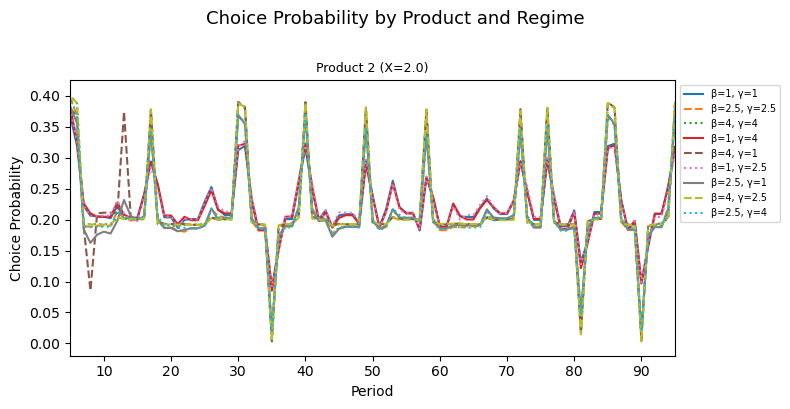
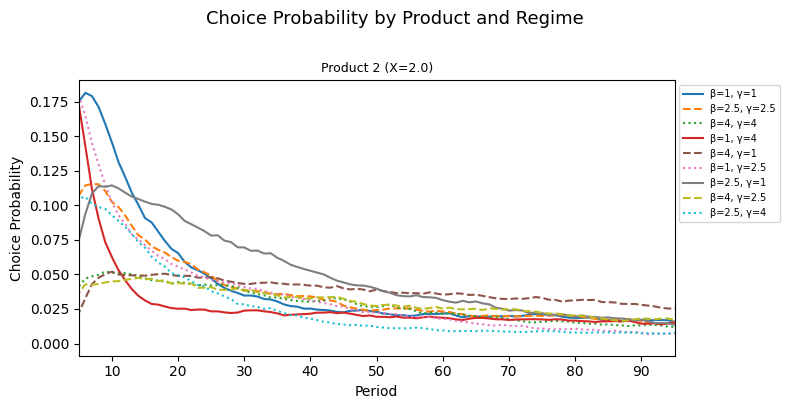
fixed sigma, finally

diff --git a/Y2S2/IO/LOV_CC/Code/updated_prob.py b/Y2S2/IO/LOV_CC/Code/updated_prob.py
@@ -11,7 +11,7 @@ from collections import namedtuple
 """
 This file will be used to do initial simulation of the love of variety problem:
     - Consumer Problem: U_ijt = beta_i*X_jt - gamma_i*(Sigma_jt) + a_ijt + epsilon_ijt
-        s.t. gamma ~ N(0, sigma_gamma); Sigma_jt = sum_t^T  X_jt
+        s.t. gamma ~ N(0, sigma_gamma); Sigma_jt = X_jt - 1/t*sum_{k=1}^t x_kt 
     - Firm Problem: V(a_t;Sigma_jt, lambda_t(gamma_i)) = {pi + int_gamma V(a';Sigma_jt+1, lambda_t+1(gamma_i))dlambda_t(gamma_i)}
         s.t. pi = (1+a)p - c
              lambda_t(gamma) ~ N(1/Sigma_jt, sigma_lambda), a = {0,1}
@@ -88,8 +88,6 @@ def simulate_cons(beta, gamma, kappa, sigma_gamma, T, J, X_bar, sigma_x, rng, S=
         x_bar = np.mean(prod_space)
         #x_bar[0] = np.mean(prod_space)
 
-        Sigma = np.zeros((T,J)) # empty vector for the sum of characteristics
-
         V = np.zeros((T, J))
         chosen_idx = np.zeros(T, dtype=int)
 
@@ -101,16 +99,14 @@ def simulate_cons(beta, gamma, kappa, sigma_gamma, T, J, X_bar, sigma_x, rng, S=
         V[0] = u0
         chosen_idx[0] = np.argmax(u0)
         x_chosen[0] = X_jt[0, chosen_idx[0]]
-        Sigma[0, chosen_idx[0]] = x_chosen[0]
 
         for t in range(1, T):
             u = np.zeros(J)
-            a[t] = 1.0
-            #x_bar[t] = np.mean(x_chosen[:t])
             X_jt[t] = np.array(prod_space)
-            Sigma[t] = Sigma[t-1].copy()
-            Sigma[t, chosen_idx[t-1]] += x_chosen[t-1]
-            u = beta*X_jt[t] - gamma*Sigma[t] + kappa*a[t] + epsilon_ijt[t] # love variety
+            a[t] = 0.0
+            #x_bar[t] = np.mean(x_chosen[:t])
+            Sigma = X_jt[t] - x_bar
+            u = beta*X_jt[t] - gamma*Sigma**2 + kappa*a[t] + epsilon_ijt[t] # love variety
             V[t] = u
             chosen_idx[t] = np.argmax(V[t])
             x_chosen[t] = X_jt[t, chosen_idx[t]] 
@@ -193,7 +189,6 @@ def simulate_cons_markov(beta, gamma, kappa, sigma_gamma, T, J, X_bar, sigma_x, 
         x_bar = np.mean(prod_space)
         #x_bar[0] = np.mean(prod_space)
 
-        Sigma = np.zeros((T,J)) # empty vector for the sum of characteristics
 
         V = np.zeros((T, J))
         chosen_idx = np.zeros(T, dtype=int)
@@ -202,18 +197,17 @@ def simulate_cons_markov(beta, gamma, kappa, sigma_gamma, T, J, X_bar, sigma_x, 
         a = np.zeros(T)
 
         a[0] = 0
-        u0 = beta*X_jt[0] - gamma*0 + a[0] + epsilon_ijt[0]
+        u0 = beta*X_jt[0] - gamma*0 + kappa*a[0] + epsilon_ijt[0]
         V[0] = u0
         x_chosen[0] = X_jt[0, chosen_idx[0]]
-        Sigma[0, chosen_idx[0]] = x_chosen[0]
 
         for t in range(1, T):
-            u = np.zeros(J)
             X_jt[t] = np.array(prod_space)
-            a[t] = kappa*(x_bar - x_chosen[t-1])**2 # Markovian promotion based on distance from mean 
-            Sigma[t] = Sigma[t-1].copy()
-            Sigma[t, chosen_idx[t-1]] += x_chosen[t-1]
-            u = beta*X_jt[t] - gamma*Sigma[t] + a[t] + epsilon_ijt[t] # love sameness
+            u = np.zeros(J)
+            #a[t] = kappa*(x_bar - x_chosen[t-1])**2 # Markovian promotion based on distance from mean 
+            a[t] = 0
+            Sigma = X_jt[t] - x_bar
+            u = beta*X_jt[t] - gamma*Sigma**2 + kappa*a[t] + epsilon_ijt[t] # love sameness
             V[t] = u
             chosen_idx[t] = np.argmax(V[t])
             x_chosen[t] = X_jt[t, chosen_idx[t]] 
